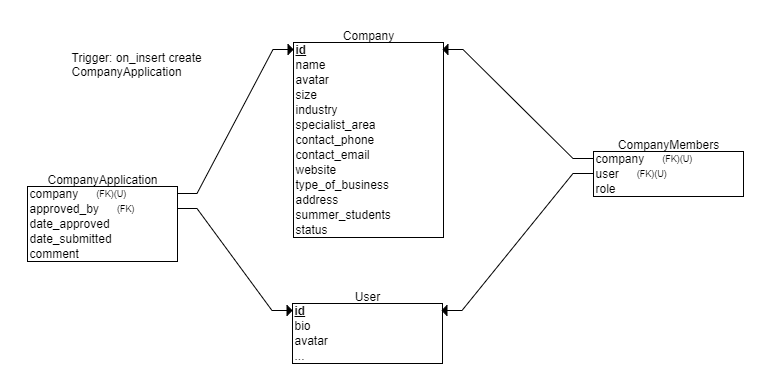
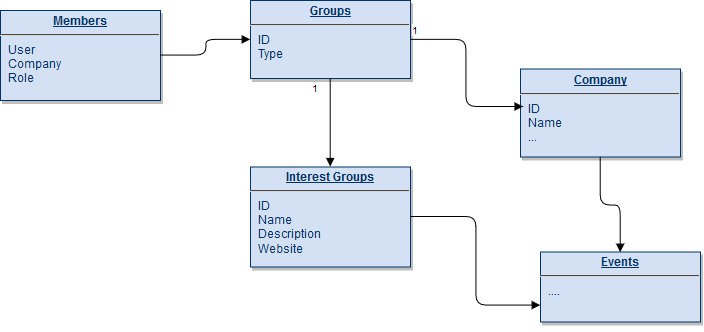
Update documentation for models: entity, company, groups

diff --git a/entity/models/README.md b/entity/models/README.md
@@ -1,5 +1,5 @@
-The model folder includes all models required for companies. So far, two tables
-where Company represents a Company, and CompanyMembers are the members who
-belong to the company, and their roles.
+The model includes an entity abstraction model. This Entity model is used by both Company and Group models. In the picture below, 'Groups' is 'Entity' and 'Interest Groups' is 'Group'. Events will branch from 'Entity'.
+
+Company & Group extends the Entity model.
 
 ![alt text](docs/model.png "The relational diagram undermining companies")
